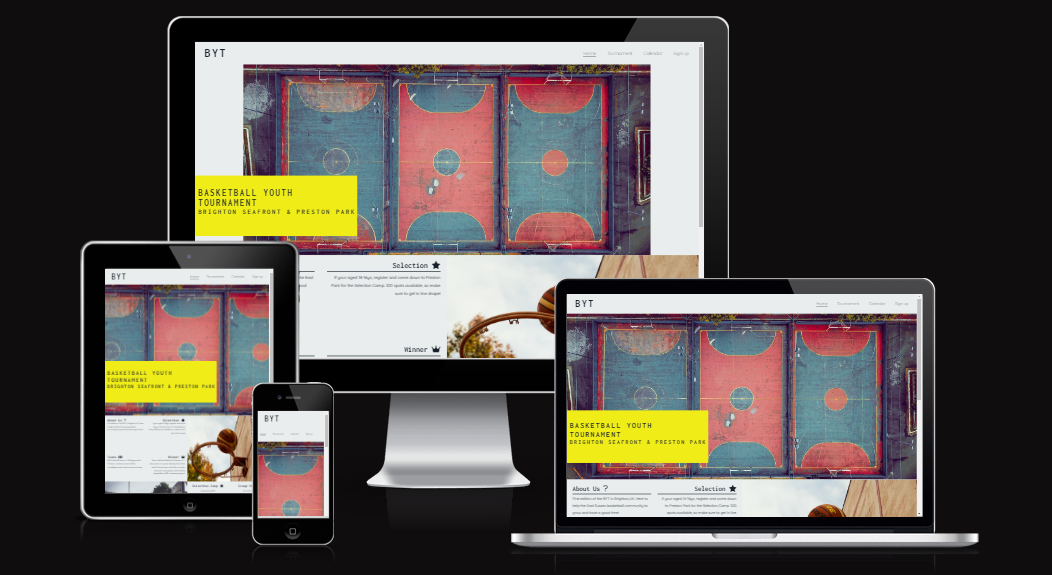
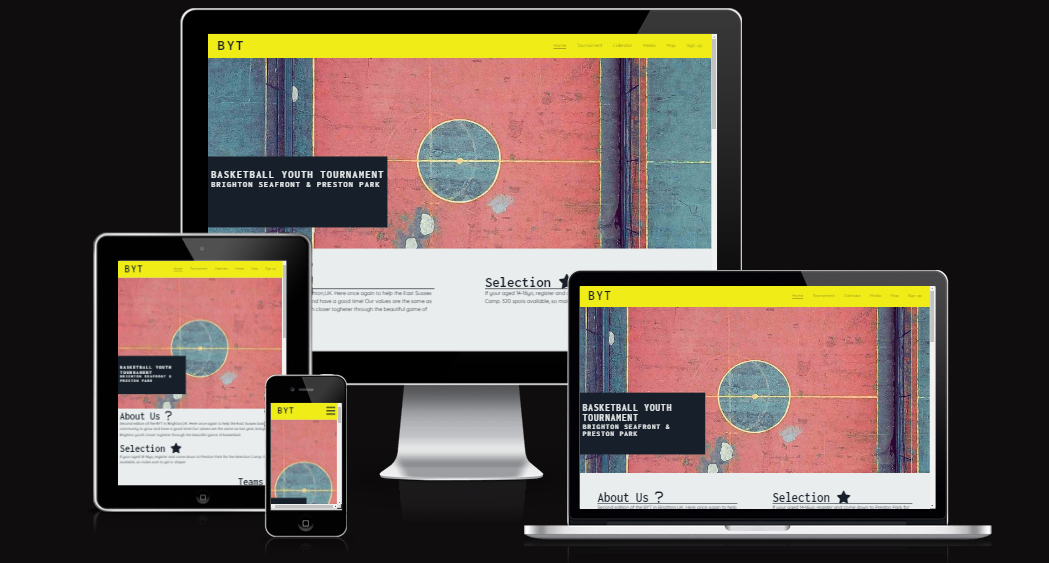
Finish the README.md page

diff --git a/assets/css/style.css b/assets/css/style.css
@@ -340,7 +340,7 @@ hr {
     max-width: 50%;
     height: fit-content;
     background-color: rgba(240, 236, 24, .8);
-    margin-top: 15%;
+    margin-top: 10%;
     padding: 1%;    
     font-size: 100%;
     font-weight: 900;
@@ -450,6 +450,10 @@ hr {
 
     #social i {
         font-size: 100%;
+    }
+
+    .signup-form {
+        margin-top: 18%;
     }
 } 
 

diff --git a/README.md b/README.md
@@ -15,6 +15,7 @@ The page is targeted for kids who love basketball and wants to spend a summer co
     - The Nav Bar is consistent in both the index and sign up pages to allow for easy navigation.
     - It includes the tournament logo on the right and link to the home page, the tournament section, the calendar section and the sign up page on the left.
     - It allows the user to easily navigate through the website without having to use the browsere 'back' button.
+    - The Nav Bar collapses into a hamburger style menu on mobile divices.
 
 ![Nav Bar](/assets/images/screenshot3.png)
 
@@ -22,7 +23,7 @@ The page is targeted for kids who love basketball and wants to spend a summer co
 - **Landing Page Image**
 
     - The landing page consiste of one big hero image and a cover text with the name and the location of the tournament.
-    - It present the user with a pretty obvious clue about what this website is about, with the image being of three colorful basketball courts.
+    - It present the user with a pretty obvious clue about what this website is about, with the image being of a colorful basketball court.
 
 ![Langind Page Image](/assets/images/screenshot7.png)
 
@@ -44,6 +45,22 @@ The page is targeted for kids who love basketball and wants to spend a summer co
 ![Event Calendar Section](/assets/images/screenshot6.png)
 
 
+- **Media Section**
+
+    - This section consist of a YouTube video of the first edition of the tournament.
+    - The user can get a better understanding of what the tournament is all about and they can see one of our courts.
+
+![Media Section](/assets/images/screenshot2.png)
+
+
+- **Map Section**
+
+    - This section contains a Google Map of our main court.
+    - Map is interactive so that the user can get easy directions.
+
+![Map Section](/assets/images/screenshot10.png)
+
+
 - **The Footer**
 
     - The footer section includes contact information and direct links to social media.
@@ -56,7 +73,7 @@ The page is targeted for kids who love basketball and wants to spend a summer co
 
     - The sign up page allows the users to register for the tournament selection camp by providing their first and last name, email address, date of birth and preferred position.
 
-![Sign Up Page](/assets/images/screenshot2.png)
+![Sign Up Page](/assets/images/screenshot9.png)
 
 
 ## Testing
@@ -65,3 +82,48 @@ The page is targeted for kids who love basketball and wants to spend a summer co
 - The website is responsive to different screen sizes, I tested this using the chrome developer tools.
 - I confrimed that all the text content on the page is readable and understandable at all screen sizes.
 - I confirmed that the sign up form works, requiring all the fields to be input in order to submit.
+
+
+## Bugs
+
+**Solved Bugs**
+
+- When i first deployed my project I realized there were a lot of issues with my media queries.
+- I had to start all media queries from scratch, but in the end I managed to achieve a good responsive page on all devices sizes.
+
+**Unfixed Bugs**
+
+- No unfixed bugs.
+
+
+## Validator Testing
+
+- **HTML**
+    - No errors were returned when passing through the official W3C validator.
+- **CSS**
+    - No errors were returned when passing through the official W3C validator.
+- **Accessibility**
+    - I confirmed good accessibility of the page by running it through Lighthouse.
+
+![Lightohouse Score](/assets/images/screenshot8.png)
+
+
+## Deployment
+
+- The site was deployed to GitHub Pages. The steps required are as follows:
+    - From the GitHub main repository, navigate to Settings page.
+    - Locate the Pages section.
+    - Here, select Main Branch from the drop-down menu.
+    - Once selected, GitHub will generate a link to the complete website.
+
+The live link can be found here - https://totes7.github.io/project-portfolio-one/
+
+
+## Credits
+
+- **Content**
+    - The code for the social media section and for the sign up form were taken from the CI Love Running project.
+    - The code for the hamburger style menu on mobile devices was written getting inspiration from the repository 'CSS-Hamburger-Menu-design' of GitHub user 'hosseinnabi-ir'.
+- **Media**
+    - All the images were taken from Pexels.
+    - The youtube video is from the channel 'ayydee23' and is titled 'I SHUTDOWN The Court In BRIGHTON!'.
